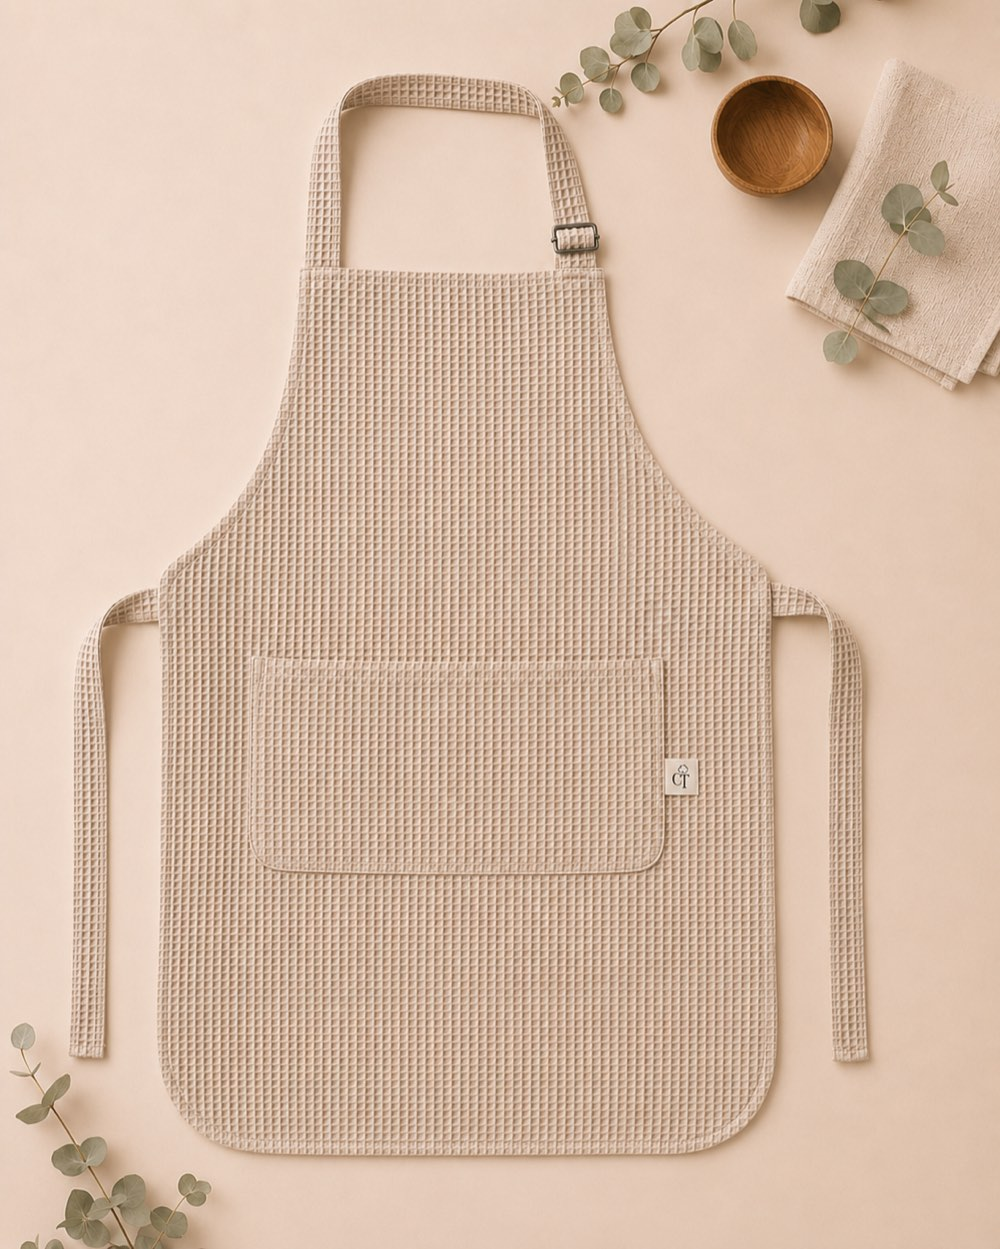
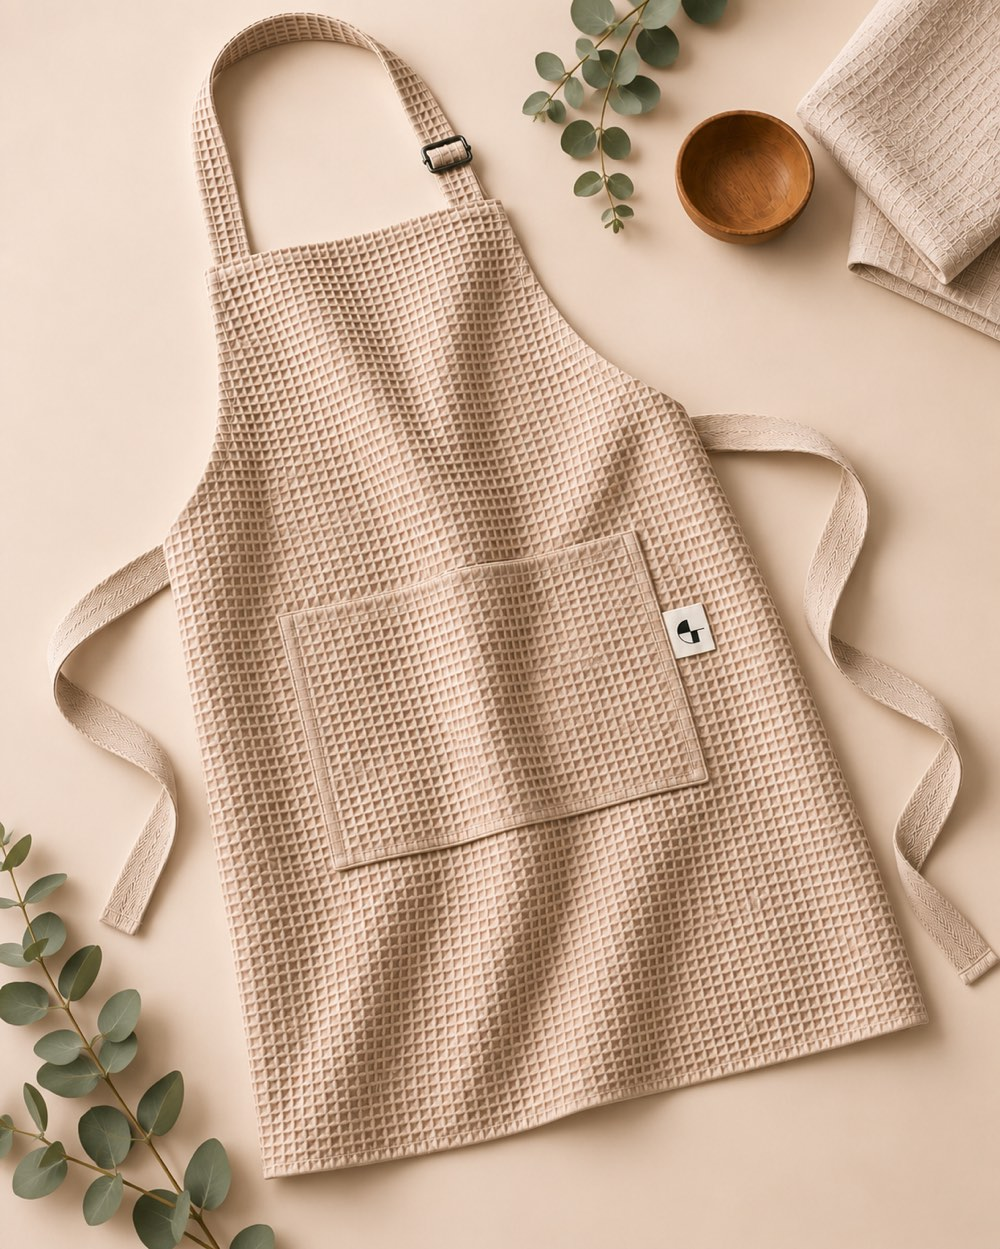
Neue Produktfotos: je zwei Aufnahmen fuer Erwachsenen-, Kinderschuerze und Set

diff --git a/shop/kids-apron.html b/shop/kids-apron.html
@@ -27,6 +27,7 @@
   "name": "Kids' waffle apron »Little Dough Love«",
   "image": [
     "https://constantinteck.com/assets/img/apron-kids.jpg",
+    "https://constantinteck.com/assets/img/apron-kids-2.jpg",
     "https://constantinteck.com/assets/img/apron-detail-pocket.jpg",
     "https://constantinteck.com/assets/img/apron-detail-strap.jpg"
   ],
@@ -133,6 +134,7 @@
           </button>
           <div class="product-gallery__thumbs no-scrollbar">
             <button type="button" class="product-gallery__thumb" data-gallery-thumb aria-pressed="false"><img src="../assets/img/apron-kids.jpg" alt="Kids' waffle apron »Little Dough Love« in Sand, laid out flat"></button>
+            <button type="button" class="product-gallery__thumb" data-gallery-thumb aria-pressed="false"><img src="../assets/img/apron-kids-2.jpg" alt="Kids' waffle apron »Little Dough Love« in Sand, seen from a slight angle" loading="lazy"></button>
             <button type="button" class="product-gallery__thumb" data-gallery-thumb aria-pressed="false"><img src="../assets/img/apron-detail-pocket.jpg" alt="Close-up of the front pocket with the sewn-in CT label" loading="lazy"></button>
             <button type="button" class="product-gallery__thumb" data-gallery-thumb aria-pressed="false"><img src="../assets/img/apron-detail-strap.jpg" alt="Close-up of the adjustable neck strap" loading="lazy"></button>
           </div>

diff --git a/shop/apron-set.html b/shop/apron-set.html
@@ -27,6 +27,7 @@
   "name": "Apron set »Dough Love« (adult + kids)",
   "image": [
     "https://constantinteck.com/assets/img/apron-set.jpg",
+    "https://constantinteck.com/assets/img/apron-set-2.jpg",
     "https://constantinteck.com/assets/img/apron-detail-pocket.jpg",
     "https://constantinteck.com/assets/img/apron-detail-strap.jpg"
   ],
@@ -133,6 +134,7 @@
           </button>
           <div class="product-gallery__thumbs no-scrollbar">
             <button type="button" class="product-gallery__thumb" data-gallery-thumb aria-pressed="false"><img src="../assets/img/apron-set.jpg" alt="Apron set »Dough Love« – the grown-up and the kids' apron side by side"></button>
+            <button type="button" class="product-gallery__thumb" data-gallery-thumb aria-pressed="false"><img src="../assets/img/apron-set-2.jpg" alt="Both aprons hanging side by side in a sunlit kitchen" loading="lazy"></button>
             <button type="button" class="product-gallery__thumb" data-gallery-thumb aria-pressed="false"><img src="../assets/img/apron-detail-pocket.jpg" alt="Close-up of the front pocket with the sewn-in CT label" loading="lazy"></button>
             <button type="button" class="product-gallery__thumb" data-gallery-thumb aria-pressed="false"><img src="../assets/img/apron-detail-strap.jpg" alt="Close-up of the neck strap with its metal slider" loading="lazy"></button>
           </div>

diff --git a/shop/linen-apron.html b/shop/linen-apron.html
@@ -27,6 +27,7 @@
   "name": "Waffle apron »Dough Love«",
   "image": [
     "https://constantinteck.com/assets/img/apron-adult.jpg",
+    "https://constantinteck.com/assets/img/apron-adult-2.jpg",
     "https://constantinteck.com/assets/img/apron-detail-pocket.jpg",
     "https://constantinteck.com/assets/img/apron-detail-strap.jpg"
   ],
@@ -133,6 +134,7 @@
           </button>
           <div class="product-gallery__thumbs no-scrollbar">
             <button type="button" class="product-gallery__thumb" data-gallery-thumb aria-pressed="false"><img src="../assets/img/apron-adult.jpg" alt="Waffle apron »Dough Love« in Sand, laid out flat"></button>
+            <button type="button" class="product-gallery__thumb" data-gallery-thumb aria-pressed="false"><img src="../assets/img/apron-adult-2.jpg" alt="Waffle apron »Dough Love« in Sand, seen from a slight angle" loading="lazy"></button>
             <button type="button" class="product-gallery__thumb" data-gallery-thumb aria-pressed="false"><img src="../assets/img/apron-detail-pocket.jpg" alt="Close-up of the front pocket with the sewn-in CT label" loading="lazy"></button>
             <button type="button" class="product-gallery__thumb" data-gallery-thumb aria-pressed="false"><img src="../assets/img/apron-detail-strap.jpg" alt="Close-up of the neck strap with its metal slider" loading="lazy"></button>
           </div>
